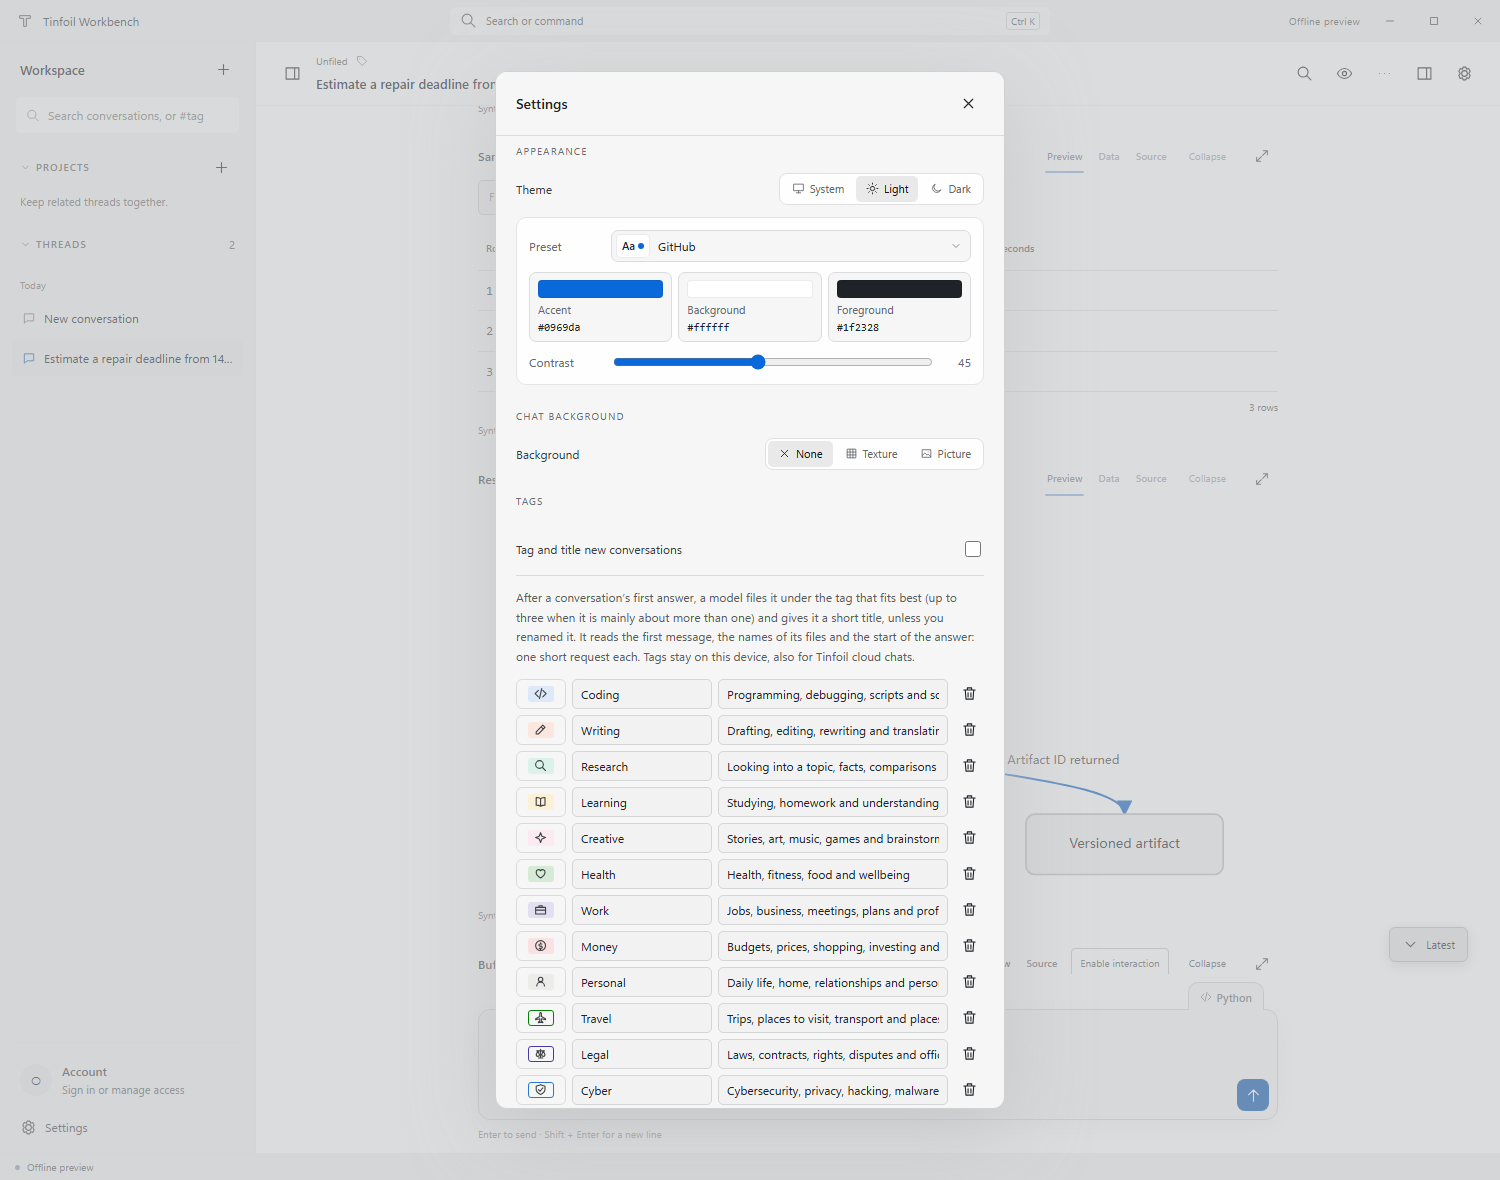
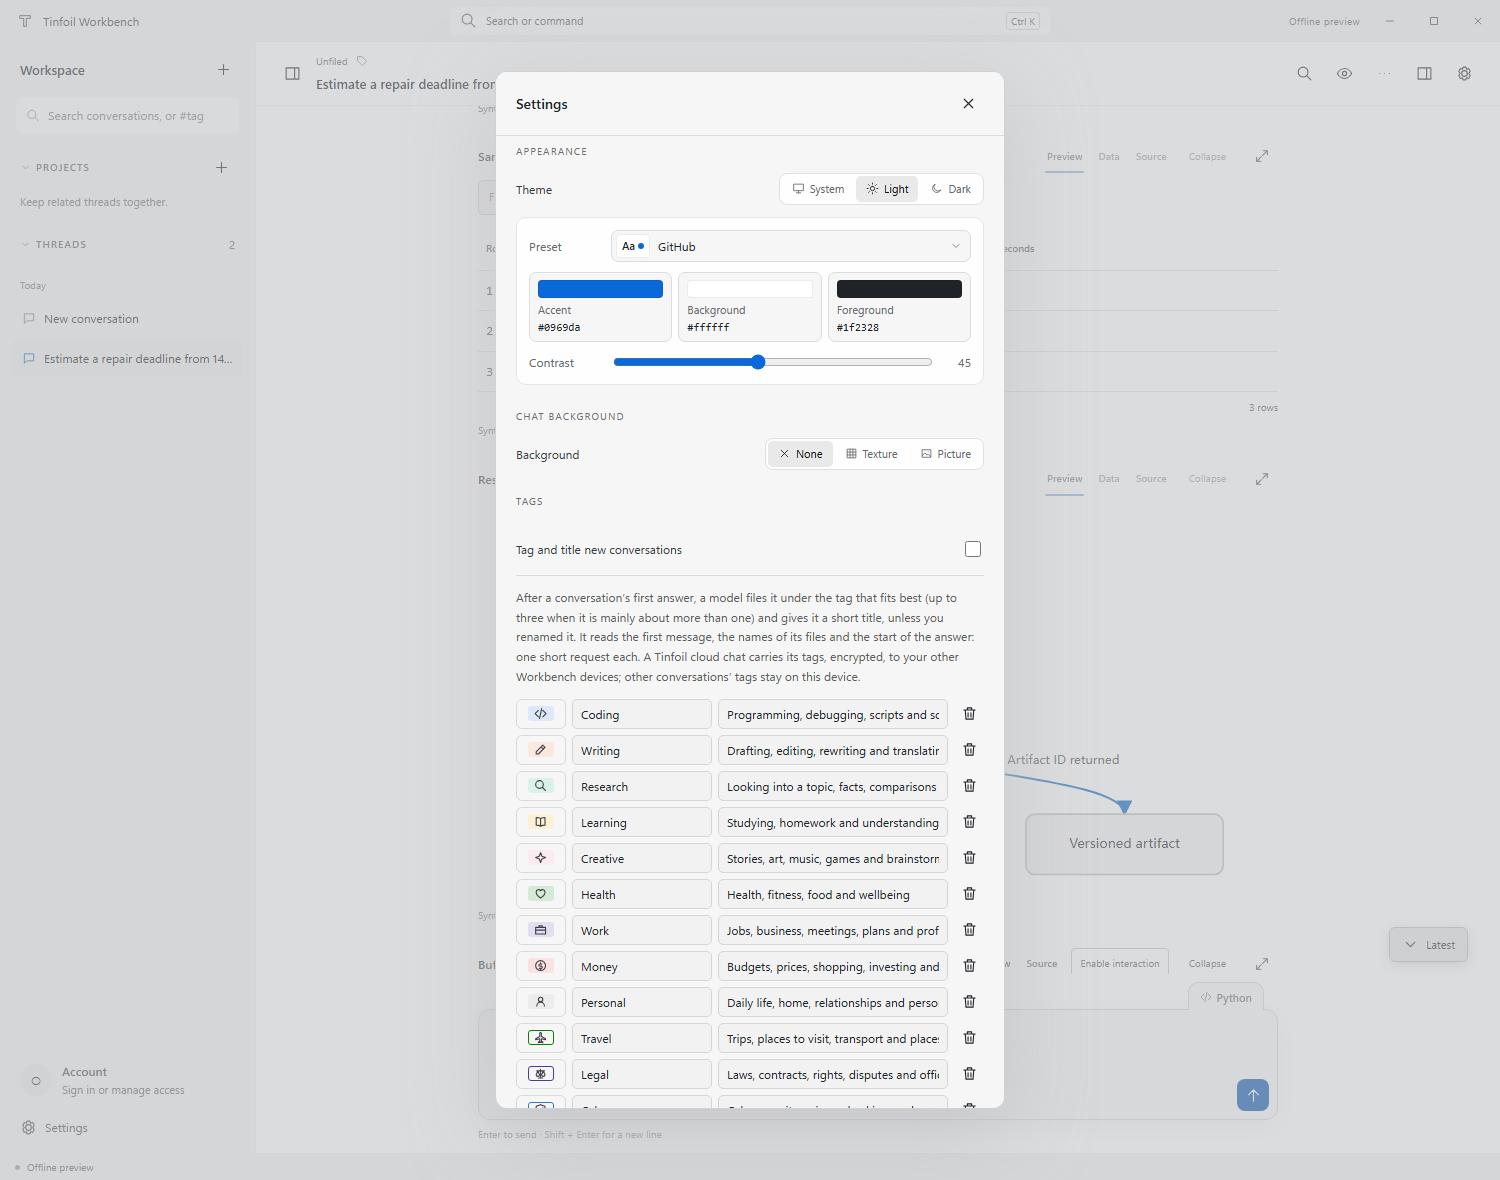
Carry a cloud chat's tags in its encrypted plaintext
Tags were kept only on the device that set them, so a cloud chat tagged
on one Workbench showed no tags on another. A cloud chat now carries its
tags in its plaintext as workbenchTags: {version: 1, tags: [{id, name,
color, style, icon?}], tagged: {at, model?}} (CLOUD_TAGS_FIELD,
cloudTagsValue). Tinfoil Chat on the web keeps a top-level field it does
not know when it edits a chat: its chat schema passes unknown fields
through and its saves spread the whole chat. A test chat carrying such a
field kept it after a rename on the web (tests/cloud-field-live.mjs).

Reading: a pull, a load or a resolved conflict applies the cloud's tags
(readCloudTags), matched by id, then by name ignoring case; a tag the
list lacks is added with its look while the list has room. They are
applied to the conversation itself, since merging the new version with
Object.assign cannot remove tags the cloud no longer has.

Writing: a tag change on a cloud chat (the person's, the classifier's,
or a tag leaving the list) marks the link tagsDirty and is written on its
own (cloudTagsPatch): the plaintext as it is, with the tags and a new
edit clock, so the messages and updatedAt stay and the chat keeps its
place in Tinfoil Chat's list. If the cloud version is newer, it is taken
and the tags are written onto it, never a Workbench copy; until they are
written, tags changed here win over the cloud's. A change made while a
write is on its way stays marked. Any other write of the chat, and a new
[…]

Changed region(s): [[0.3373, 0.5492, 0.6747, 0.9458]]

diff --git a/src/core/tags.ts b/src/core/tags.ts
@@ -177,3 +177,47 @@ export function tagSearch(query: string): string | null {
   return q.startsWith('#') ? fold(q) : null;
 }
 export const tagNameMatches = (tag: TagDef, query: string): boolean => fold(tag.name).startsWith(query);
+
+/** Where a Tinfoil cloud chat keeps its tags: a field of its encrypted plaintext that Tinfoil Chat on the web keeps but
+ * does not show, so every Workbench with the chat key sees them. Each tag carries its id, name and look, so a device
+ * whose list lacks it can add it; `tagged` says when and by whom they were chosen. */
+export const CLOUD_TAGS_FIELD = 'workbenchTags';
+export interface CloudTags {
+  version: 1;
+  tags: { id: string; name: string; color: TagColor; style: TagStyle; icon?: TagIcon }[];
+  tagged: { at: number; model?: string };
+}
+/** A conversation's tags as a cloud chat keeps them; null for one that was never tagged. */
+export function cloudTagsValue(thread: Thread, tagging: Tagging): CloudTags | null {
+  if (!thread.tagged) return null;
+  return { version: 1, tags: threadTags(thread, tagging).map(t => ({ id: t.id, name: t.name, color: t.color, style: t.style, ...(t.icon ? { icon: t.icon } : {}) })),
+    tagged: { at: thread.tagged.at, ...(thread.tagged.model ? { model: thread.tagged.model } : {}) } };
+}
+const TAG_ID = /^[A-Za-z0-9_.:-]{1,100}$/;
+/** A cloud chat's tags read against this device's list: each is matched by id, then by name ignoring case; one the list
+ * lacks is added with its look while the list has room (`added`). Null when the value is missing or unreadable, or
+ * written by a later version of this format. */
+export function readCloudTags(value: unknown, tagging: Tagging): { tags: string[]; tagged: { at: number; model?: string }; added: TagDef[] } | null {
+  if (!value || typeof value !== 'object' || Array.isArray(value)) return null;
+  const v = value as { version?: unknown; tags?: unknown; tagged?: unknown };
+  const tagged = v.tagged as { at?: unknown; model?: unknown } | undefined;
+  if (v.version !== 1 || !Array.isArray(v.tags) || !tagged || typeof tagged !== 'object' || typeof tagged.at !== 'number' || !Number.isFinite(tagged.at) || tagged.at <= 0) return null;
+  const byId = new Map(tagging.tags.map(t => [t.id, t])), byName = new Map(tagging.tags.map(t => [fold(t.name), t]));
+  const added: TagDef[] = [], ids: string[] = [];
+  for (const entry of v.tags.slice(0, TAG_LIMITS.perThread)) {
+    if (!entry || typeof entry !== 'object') continue;
+    const e = entry as Record<string, unknown>;
+    const name = typeof e.name === 'string' ? e.name.replace(/^#+/, '').trim() : '';
+    const id = typeof e.id === 'string' && TAG_ID.test(e.id) ? e.id : null;
+    let tag = (id ? byId.get(id) : undefined) ?? (name ? byName.get(fold(name)) : undefined);
+    if (!tag && name && name.length <= TAG_LIMITS.name && !/[\x00-\x1f\x7f]/.test(name) && tagging.tags.length + added.length < TAG_LIMITS.tags) {
+      tag = { id: id ?? `tag-${globalThis.crypto.randomUUID()}`, name, hint: '',
+        color: TAG_COLORS.includes(e.color as TagColor) ? e.color as TagColor : 'grey', style: TAG_STYLES.includes(e.style as TagStyle) ? e.style as TagStyle : 'fill',
+        ...(TAG_ICONS.includes(e.icon as TagIcon) ? { icon: e.icon as TagIcon } : {}) };
+      added.push(tag); byId.set(tag.id, tag); byName.set(fold(name), tag);
+    }
+    if (tag && !ids.includes(tag.id)) ids.push(tag.id);
+  }
+  const model = typeof tagged.model === 'string' && tagged.model.trim() ? tagged.model.trim().slice(0, 200) : undefined;
+  return { tags: ids, tagged: { at: tagged.at, ...(model ? { model } : {}) }, added };
+}

diff --git a/src/core/cloud.ts b/src/core/cloud.ts
@@ -6,13 +6,19 @@ import { CLOUD_PICTURE_ID, IMAGE_LIMITS, STORED_IMAGE_TYPES, base64Bytes, cloudI
 import { defaults, uid } from './workspace.js';
 import { escapePromptContent } from './prompt.js';
 import { RENDER_KINDS, artifactFileName, structuredVisual, visualArguments } from './visual-tools.js';
+import { CLOUD_TAGS_FIELD, type CloudTags } from './tags.js';
 
 /** A conversation that is also a Tinfoil cloud chat. `turns` is how many turns came from the cloud at the last sync:
  * later turns are Workbench's own until they are written back. `loaded` is false for a listed chat whose messages
  * have not been fetched yet. `format` is the CLOUD_FORMAT its messages were read with; absent before 2. */
 export interface CloudChatLink { id: string; etag: string; project: string | null; turns: number; loaded: boolean; dirty: boolean; syncedAt: number; format?: number;
   /** The path changed at `turns` (another version was made or shown): the cloud chat's messages after it are replaced. */
-  rewritten?: true }
+  rewritten?: true;
+  /** Its tags changed here and are not written yet (core/tags.ts CLOUD_TAGS_FIELD). Alone, they are written without the
+   * messages (cloudTagsPatch); a newer cloud version then keeps them instead of its own. */
+  tagsDirty?: true;
+  /** The cloud version has its tags, or a later format's: a conversation tagged here without it has them written. */
+  tagsKnown?: true }
 /** How much of a cloud chat's messages Workbench reads: 2 added Tinfoil Chat's widgets, 3 its pictures. A loaded chat
  * read with an older format is read again at the next sync. */
 export const CLOUD_FORMAT = 3;
@@ -232,6 +238,12 @@ export function cloudPatch(remote: Json, thread: Thread, clock: { v: number; w: 
   }
   return { ...remote, title: thread.title, ...(thread.title !== remote.title ? { titleState: 'manual' } : {}), messages: out,
     updatedAt: new Date(now).toISOString(), clock: clock.v, writer: clock.w, clockVersion: clock.version };
+}
+/** A write of a cloud chat's tags alone: its plaintext as it is, with `tags` (core/tags.ts CLOUD_TAGS_FIELD) and a new
+ * edit clock. Its messages and `updatedAt` stay, so a tag change neither touches the conversation nor moves it up
+ * Tinfoil Chat's list. */
+export function cloudTagsPatch(remote: Json, tags: CloudTags, clock: { v: number; w: string; version: number }): Json {
+  return { ...remote, [CLOUD_TAGS_FIELD]: tags, clock: clock.v, writer: clock.w, clockVersion: clock.version };
 }
 /** How many of a conversation's turns the cloud chat `remote` already has; cloudPatch writes the turns after them. */
 export const knownTurns = (remote: Json, thread: Thread): number =>

diff --git a/src/renderer/tags-view.ts b/src/renderer/tags-view.ts
@@ -55,7 +55,7 @@ export class TagSettings {
   private focusNext: { id: string; field: 'name' | 'hint' | 'color' } | null = null;
   constructor(private readonly root: HTMLElement, private readonly host: TagSettingsHost) {
     root.innerHTML = `<label class="toggle-row"><span>Tag and title new conversations</span><input type="checkbox" id="tagging-on"></label>
-<p class="muted small" id="tagging-about">After a conversation’s first answer, a model files it under the tag that fits best (up to three when it is mainly about more than one) and gives it a short title, unless you renamed it. It reads the first message, the names of its files and the start of the answer: one short request each. Tags stay on this device, also for Tinfoil cloud chats.</p>
+<p class="muted small" id="tagging-about">After a conversation’s first answer, a model files it under the tag that fits best (up to three when it is mainly about more than one) and gives it a short title, unless you renamed it. It reads the first message, the names of its files and the start of the answer: one short request each. A Tinfoil cloud chat carries its tags, encrypted, to your other Workbench devices; other conversations’ tags stay on this device.</p>
 <div class="tagging-options" id="tagging-options" hidden><label for="tagging-model">Model</label><select id="tagging-model"></select>
 <label class="toggle-row"><span>Also write titles</span><input type="checkbox" id="tagging-titles"></label>
 <div class="tagging-run"><button type="button" data-tag-action="all" id="tagging-all">Tag untagged conversations</button><button type="button" data-tag-action="stop" id="tagging-stop" hidden>Stop</button></div></div>

diff --git a/src/core/validation.ts b/src/core/validation.ts
@@ -131,7 +131,7 @@ export function cloudChatLink(value: unknown): CloudChatLink {
   if (typeof v.loaded !== 'boolean' || typeof v.dirty !== 'boolean' || !Number.isInteger(v.turns)) throw new InputError('Invalid cloud chat link.');
   return { id: cloudId(v.id), etag: cloudVersion(v.etag), project: v.project === null ? null : cloudId(v.project), turns: numeric(v.turns, 0, LIMITS.turns),
     loaded: v.loaded, dirty: v.dirty, syncedAt: stamp(v.syncedAt), ...(v.format === undefined ? {} : { format: integer(v.format, 1, 1000) }),
-    ...(v.rewritten === true ? { rewritten: true as const } : {}) };
+    ...(v.rewritten === true ? { rewritten: true as const } : {}), ...(v.tagsDirty === true ? { tagsDirty: true as const } : {}), ...(v.tagsKnown === true ? { tagsKnown: true as const } : {}) };
 }
 export function cloudProjectLink(value: unknown): CloudProjectLink {
   const v = record(value);

diff --git a/AGENTS.md b/AGENTS.md
@@ -84,4 +84,4 @@ Add tests to `account.test.mjs`. `tests/account-live.mjs` is the manual live che
 
 ## Tags and titles
 
-Tagging stays off until the person turns it on in Settings → Tags; tags they set by hand need no model. The classifier sends only what `tagMessages` builds (the first message, its file names, the start of the answer and the tag list), through `service.bound()` for the conversation's account, with no tools, no retry and nothing else from the conversation; a conversation that needs approval for the current account is not tagged. It may choose only listed tags, never changes tags the person set, and replaces a title only while it is still the first-message title. "Tag untagged conversations" asks the host first (`tagAllQuestion`, in desktop/main.mjs and mobile/commands.mjs) with the request count and estimate. Tags stay in the encrypted workspace: never in conversation requests, Tinfoil cloud chats or exports. Tag colours are theme tokens (`tag-<colour>`, `tag-<colour>-fill`). Tests are tags.test.mjs and the tags section of ui-smoke.py.
+Tagging stays off until the person turns it on in Settings → Tags; tags they set by hand need no model. The classifier sends only what `tagMessages` builds (the first message, its file names, the start of the answer and the tag list), through `service.bound()` for the conversation's account, with no tools, no retry and nothing else from the conversation; a conversation that needs approval for the current account is not tagged. It may choose only listed tags, never changes tags the person set, and replaces a title only while it is still the first-message title. "Tag untagged conversations" asks the host first (`tagAllQuestion`, in desktop/main.mjs and mobile/commands.mjs) with the request count and estimate. Tags stay in the encrypted workspace and are never sent with conversation requests or in exports. A Tinfoil cloud chat carries its own tags in its encrypted plaintext (`workbenchTags`, core/tags.ts), written only by CloudSync; a tags-only write keeps the chat's messages and `updatedAt`, and must never make a Workbench copy. Tag colours are theme tokens (`tag-<colour>`, `tag-<colour>-fill`). Tests are tags.test.mjs and the tags section of ui-smoke.py.

diff --git a/docs/ARCHITECTURE.md b/docs/ARCHITECTURE.md
@@ -83,7 +83,9 @@ It goes to the tagging model, or to the conversation's own, through `service.bou
 
 Requests run one at a time from a queue. A first answer goes ahead of a running batch. Failures are reported in `Snapshot.tagStatus` and never retried. A sign-out, a change of connection or API key, or turning tagging off empties the queue and stops the request that is running.
 
-**Cloud chats.** A conversation that becomes a cloud chat after its first answer waits up to 30 seconds for its title before the upload. An existing cloud chat is written again when its title changes. Tags themselves never leave the device.
+**Cloud chats.** A conversation that becomes a cloud chat after its first answer waits up to 30 seconds for its title before the upload. An existing cloud chat is written again when its title changes.
+
+**Tags of cloud chats.** A cloud chat carries its tags in its plaintext (`CLOUD_TAGS_FIELD`, `cloudTagsValue`): each tag's id, name and look, and who chose them when. A pull reads them against this device's list (`readCloudTags`: by id, then by name ignoring case; a tag the list lacks is added while it has room). A tag change marks the chat's link `tagsDirty` and is written on its own (`cloudTagsPatch`: the plaintext as it is, with the tags and a new edit clock, so the messages and `updatedAt` stay); a newer cloud version is then taken and the tags written onto it, never a Workbench copy, and until they are written they win over the cloud's. Any other write of the chat carries its tags. `tagsKnown` records that the cloud version has tags, so a sync writes those of chats tagged before tags were synced. A later version of the field (`version` above 1) is left as it is.
 
 The sidebar can filter by tag, where a conversation must have every chosen tag; the selection is kept for the session only. It can also group conversations under their first tag (`ViewPreferences.threadGroup`). Search matches tag names, and `#name` matches only tags.
 

diff --git a/SECURITY.md b/SECURITY.md
@@ -53,7 +53,7 @@ Tagging is off by default. Turning it on in Settings → Tags lets Workbench mak
 
 It goes through the same verified client and account binding as the conversation. A conversation that would need approval for the current account is not tagged, and an authentication failure never falls back to another account or an API key.
 
-The request offers no tools, and it is never retried. Its answer can only choose tags from the list and, while the title is still made from the first message, replace that title; a JSON object is the only thing read from it. Before **Tag untagged conversations** runs, the host asks for confirmation: in a window of the main process on Windows, and in a native dialog on Android. The question states how many requests it will send and about how many tokens. Tags stay in the encrypted workspace and are never sent with conversation requests or to Tinfoil cloud. The tag names and hints in the list are sent with every tagging request.
+The request offers no tools, and it is never retried. Its answer can only choose tags from the list and, while the title is still made from the first message, replace that title; a JSON object is the only thing read from it. Before **Tag untagged conversations** runs, the host asks for confirmation: in a window of the main process on Windows, and in a native dialog on Android. The question states how many requests it will send and about how many tokens. Tags stay in the encrypted workspace and are never sent with conversation requests. A Tinfoil cloud chat's tags (names, looks, and which model chose them) are part of its plaintext, which only the sync enclave and devices with the chat key can read, like the chat's messages. The tag names and hints in the list are sent with every tagging request.
 
 ## Provider events and delegated inference (0.8)
 

diff --git a/docs/CLOUD.md b/docs/CLOUD.md
@@ -48,7 +48,7 @@ Deleting a cloud chat deletes its pictures in Tinfoil too. A "Workbench copy" of
 - The chat key, its key ID and the Tinfoil user it belongs to are kept in the encrypted workspace, like a saved API key. Snapshots, logs and exports never contain the key.
 - Cloud chats and projects are kept in the encrypted workspace like local conversations. Exports and imports drop the cloud link, so an import is always a new local conversation.
 - Where each picture of a cloud chat is kept (its ID and own key) is in the encrypted workspace, never in snapshots, logs or exports, and is forgotten once no message uses the picture. Fetched pictures are stored like attached ones.
-- Tags of cloud chats (Settings → Tags) are kept only in the encrypted workspace on this device; Tinfoil Chat never receives them. A title the classifier writes for a chat that Workbench made is written to the cloud chat like a rename.
+- Tags of cloud chats (Settings → Tags) are kept in the encrypted workspace and in the chat's encrypted plaintext, as `workbenchTags`: `{version: 1, tags: [{id, name, color, style, icon?}], tagged: {at, model?}}`. Tinfoil Chat on the web keeps this field when it edits a chat (its chat schema passes unknown fields through, and its saves copy the whole chat; checked with a test chat renamed on the web) but does not show it, and its backups leave it out. Another Workbench matches each tag by id, then by name ignoring case, and adds a tag its list lacks. A title the classifier writes for a chat that Workbench made is written to the cloud chat like a rename.
 - Cloud data belongs to the account whose key was added. If another account signs in, sync stops until that account signs in again or the key is removed.
 
 ## Checks

diff --git a/CHANGELOG.md b/CHANGELOG.md
@@ -19,7 +19,7 @@
   - A tag row under the search shows only conversations that have every tag you pick.
   - Search also matches tag names, and `#name` finds conversations by tag.
   - The tag button beside Threads groups conversations under their first tag instead of by day.
-- Tags are kept in the encrypted workspace on this device, also for Tinfoil cloud chats, and exports leave them out. A conversation that becomes a cloud chat after its first answer waits briefly for its new title, so Tinfoil Chat gets that title too.
+- Tags are kept in the encrypted workspace, and exports leave them out. A Tinfoil cloud chat also carries its tags in its encrypted cloud data, so Workbench on another device shows them and adds tags its list lacks; a tag change is written on its own, without touching the chat's messages or its place in Tinfoil Chat's list. Tinfoil Chat on the web keeps the tags when it edits the chat but does not show them. A conversation that becomes a cloud chat after its first answer waits briefly for its new title, so Tinfoil Chat gets that title too.
 - Workspaces from 1.3.0 get the presets with tagging off. 1.3.0 can open a workspace saved by this version, but it drops the tags and the tag list.
 
 ## 1.3.0 — workspace agent, files and pictures, themes

diff --git a/README.md b/README.md
@@ -139,7 +139,7 @@ In the sidebar:
 - `#name` in the search finds conversations by tag;
 - the tag button beside **Threads** groups conversations under their first tag.
 
-Tags are stored in the encrypted workspace on this device only, Tinfoil cloud chats included. Exports leave them out.
+Tags are stored in the encrypted workspace. A Tinfoil cloud chat also carries its tags in its encrypted cloud data, so Workbench on your other devices shows them; Tinfoil Chat on the web keeps them but does not show them. A tag a device does not have yet is added to its list. Exports leave tags out.
 
 <img src="docs/tags.png" alt="Synthetic conversations grouped by tag in the sidebar, with the tag row under the search and tags beside the title" width="62%"> <img src="docs/settings-tags.png" alt="Settings → Tags with tagging on and the colour and style picker of one tag open" width="34%">
 
